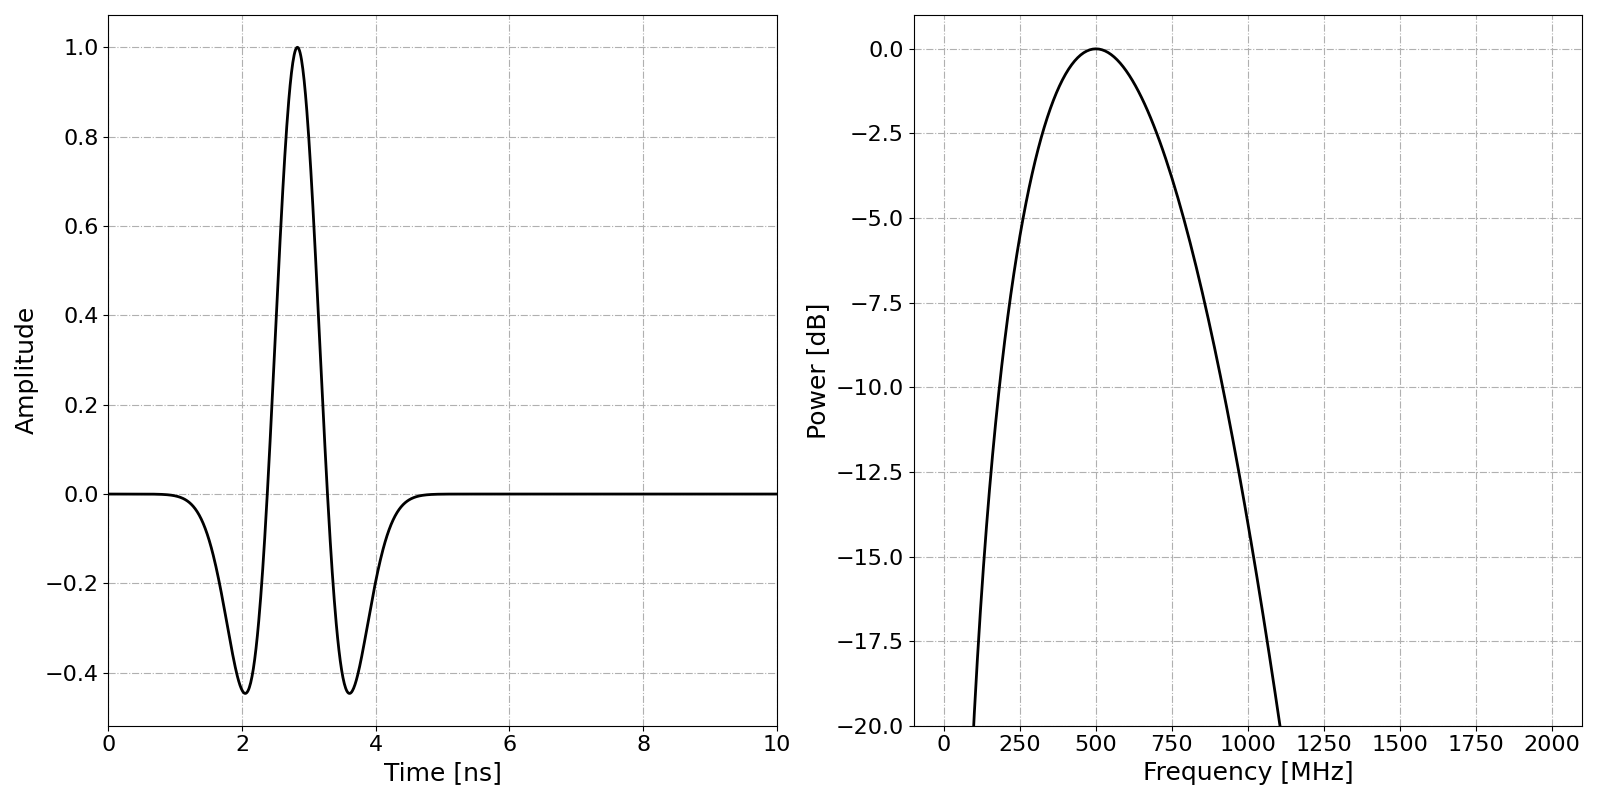
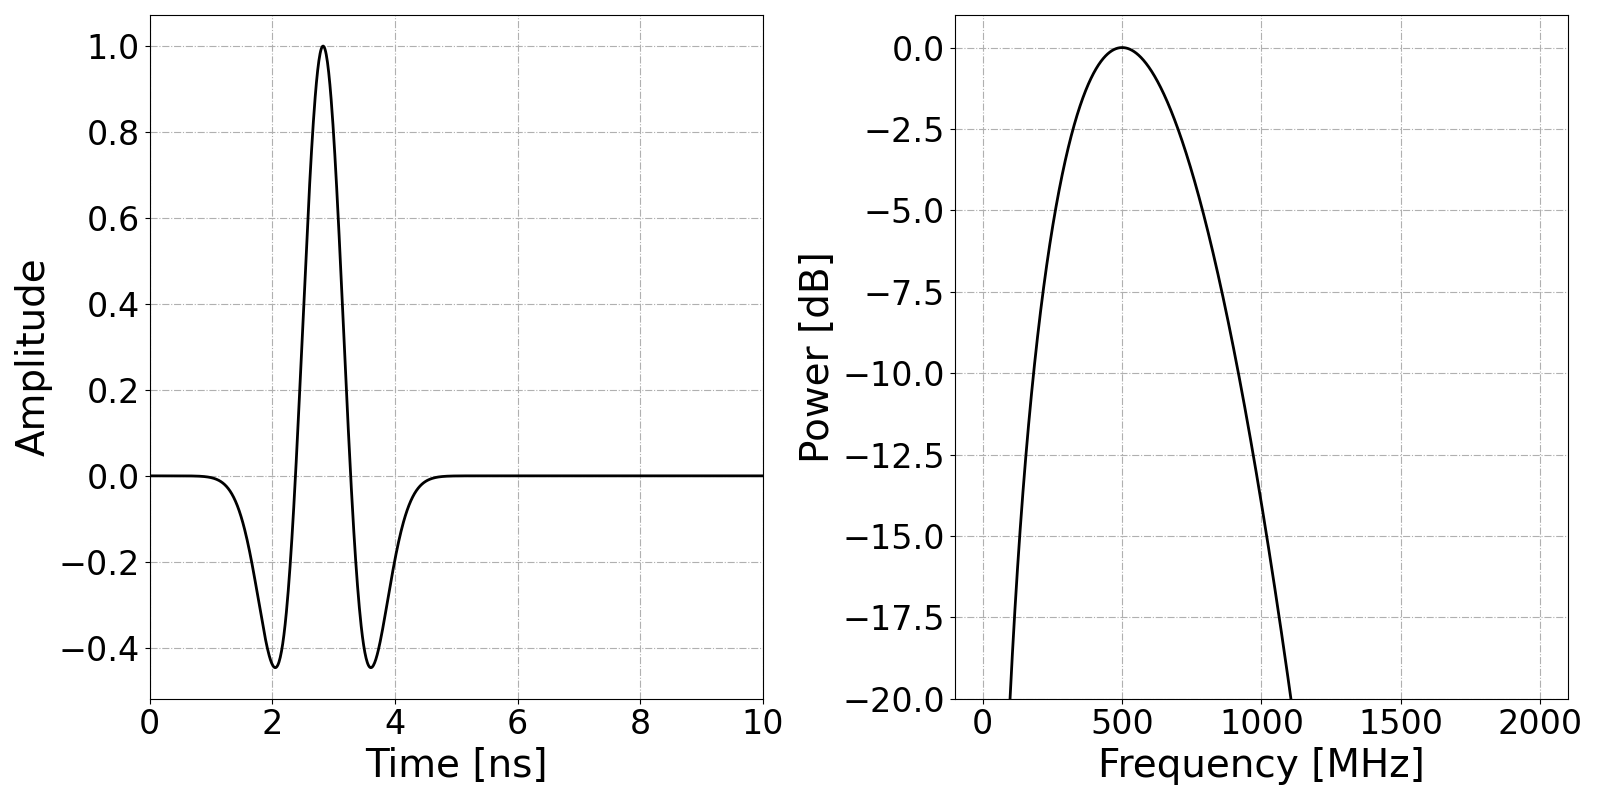
Update waveform settings and plot frequency axis units; adjust closeup range in plot_Ascan.py

diff --git a/tools/plot_Ascan.py b/tools/plot_Ascan.py
@@ -142,12 +142,8 @@ def mpl_plot(filename, outputs=Rx.defaultoutputs, fft=False):
                 ax1.tick_params(labelsize=24)
 
                 # Plot frequency spectra
-                #markerline, stemlines, baseline = ax2.stem(freqs[pltrange], power[pltrange], '-.')
-                #plt.setp(baseline, 'linewidth', 0)
-                #plt.setp(stemlines, 'color', 'r')
-                #plt.setp(markerline, 'markerfacecolor', 'r', 'markeredgecolor', 'r')
-                line2 = ax2.plot(freqs[pltrange], power[pltrange], 'k', lw=2)
-                ax2.set_xlabel('Frequency [Hz]', fontsize=28)
+                line2 = ax2.plot(freqs[pltrange]/1e6, power[pltrange], 'k', lw=2)
+                ax2.set_xlabel('Frequency [MHz]', fontsize=28)
                 ax2.set_ylabel('Power [dB]', fontsize=28)
                 ax2.grid(which='both', axis='both', linestyle='-.')
                 ax2.tick_params(labelsize=24)
@@ -310,9 +306,9 @@ if __name__ == "__main__":
 
     # for closeup option
     closeup_x_start = 0 #[ns]
-    closeup_x_end = 100 #[ns]
-    closeup_y_start = -60
-    closeup_y_end = 60
+    closeup_x_end = 10 #[ns]
+    closeup_y_start = -3500
+    closeup_y_end = 3500
 
     plthandle = mpl_plot(args.outputfile, args.outputs, fft=args.fft)
     plthandle.show()
